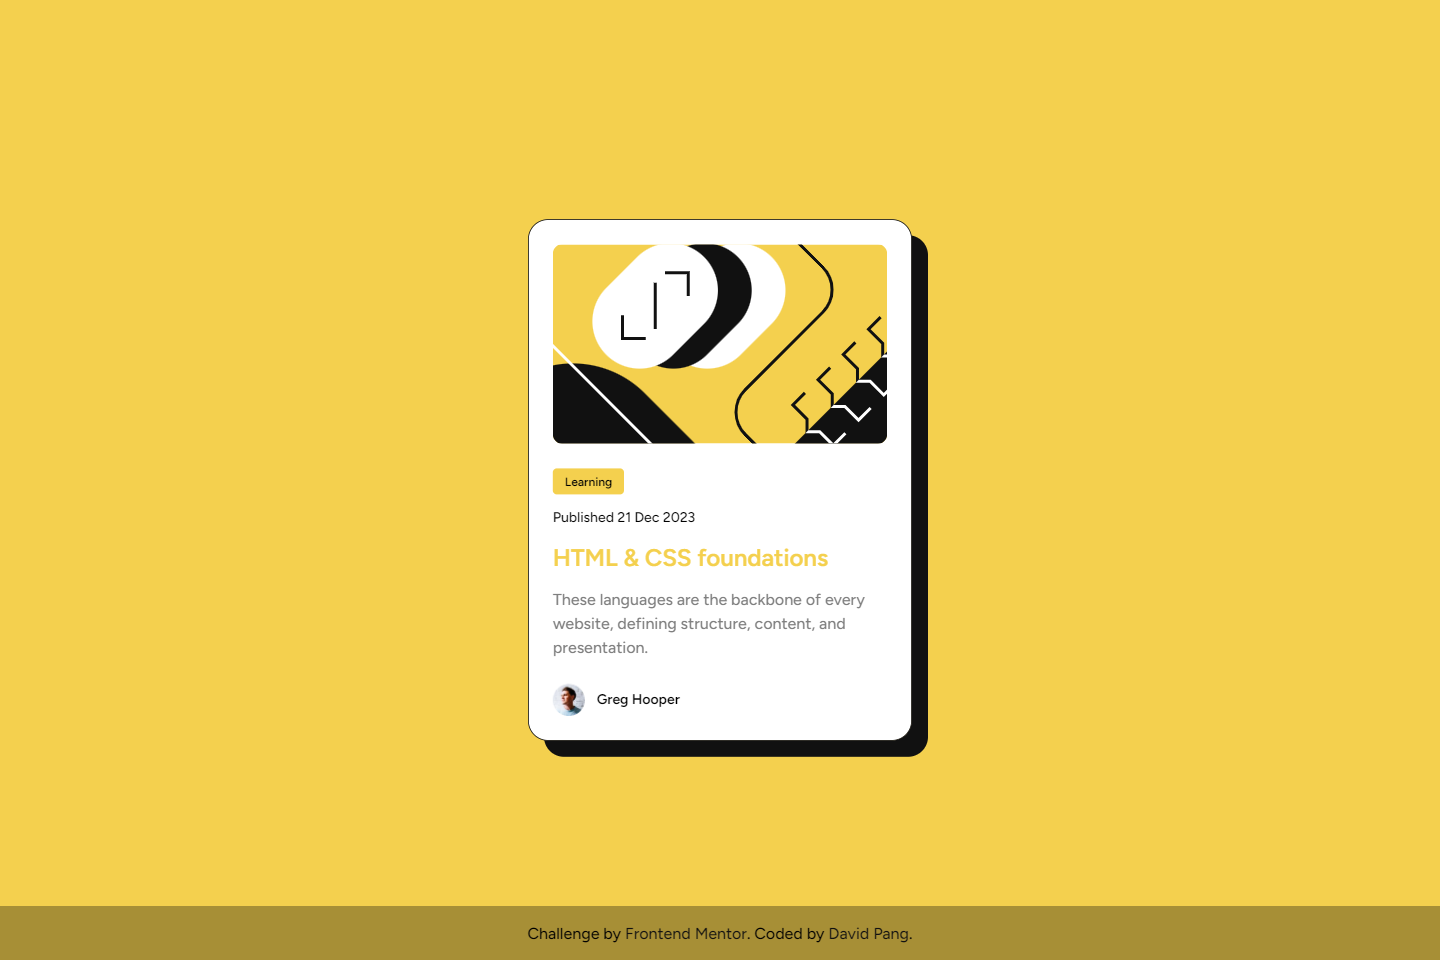
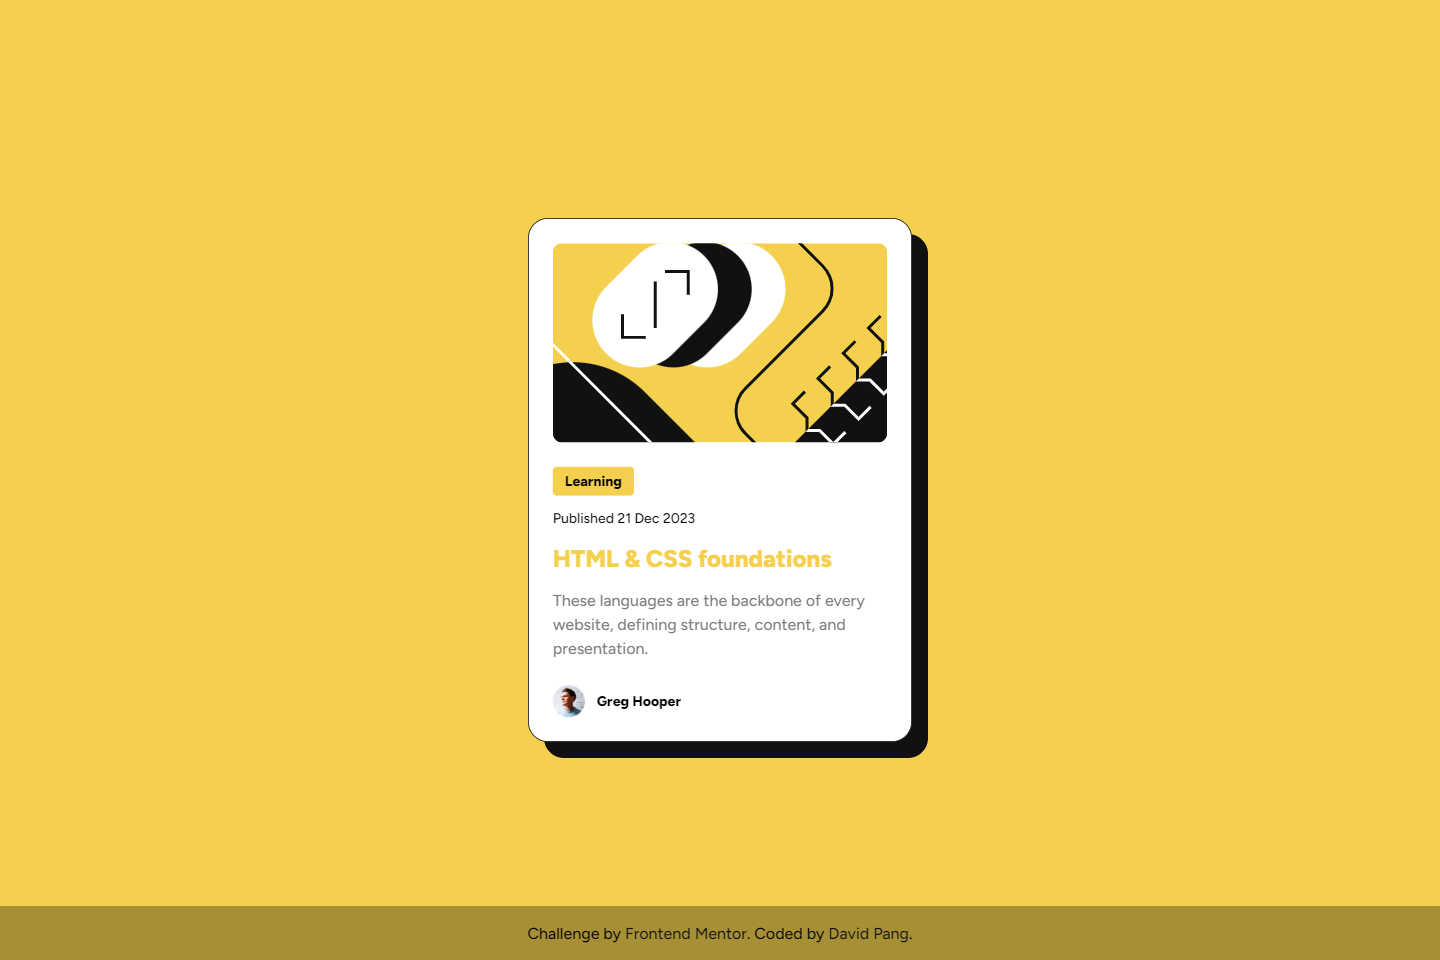
CSS fixes

diff --git a/assets/css/blog-card.css b/assets/css/blog-card.css
@@ -45,7 +45,7 @@ body {
 
 h2 {
   font-size: var(--font-size-xl);
-  font-weight: var(--font-weight-semi-bold);
+  font-weight: var(--font-weight-extra-bold);
   margin: 0;
 }
 
@@ -76,11 +76,11 @@ img {
 
 .card {
   background: var(--white);
-  border: 1px solid var(--black);
   border-radius: var(--gap-xl);
   box-shadow: 8px 8px 0 var(--black);
   display: grid;
   grid-gap: var(--gap-xxl);
+  outline: 1px solid var(--black);
   padding: var(--gap-xxl);
 }
 
@@ -105,7 +105,7 @@ img {
   border-radius: 4px;
   display: inline-flex;
   font-size: var(--font-size-s);
-  font-weight: var(--font-weight-semi-bold);
+  font-weight: var(--font-weight-extra-bold);
   padding: 4px 12px;
 }
 
@@ -126,7 +126,7 @@ img {
 
 .author-name {
   font-size: var(--font-size-m);
-  font-weight: var(--font-weight-semi-bold);
+  font-weight: var(--font-weight-extra-bold);
 }
 
 .attribution {
@@ -150,7 +150,11 @@ img {
     font-size: var(--font-size-xxl);
   }
 
-  .card-content .publish-date {
+  .category {
+    font-size: var(--font-size-m);
+  }
+
+  .publish-date {
     font-size: var(--font-size-m);
   }
 }
